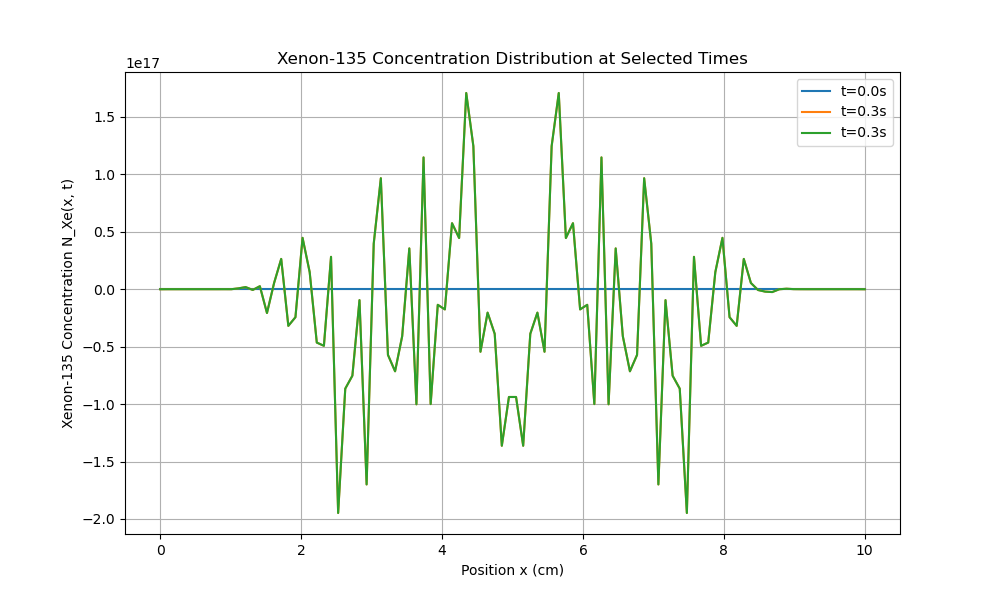
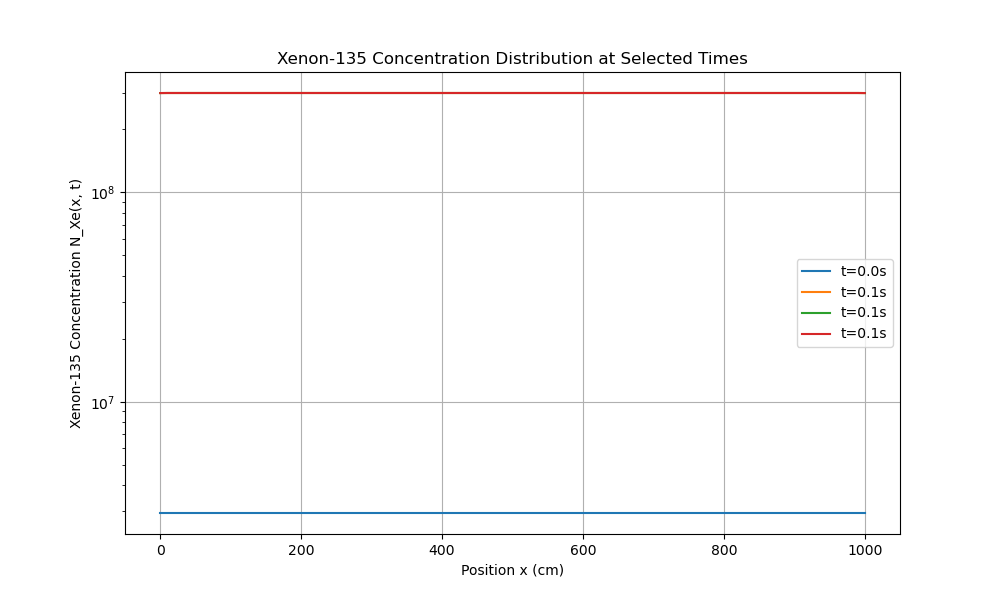
疑似问题：无法选取合适的参数导致无法达到稳态，考虑添加收敛规则

diff --git a/main.py b/main.py
@@ -1,7 +1,7 @@
 import os
 import numpy as np
 import matplotlib.pyplot as plt
-from matplotlib.animation import FuncAnimation
+import matplotlib.animation as animation
 import logging
 
 # 设置日志记录
@@ -9,7 +9,7 @@ logging.basicConfig(level=logging.INFO, format='%(asctime)s - %(levelname)s - %(
 
 # 参数定义
 # 空间域
-L = 10.0  # 一维空间长度，单位cm
+L = 1000  # 一维空间长度，单位cm
 nx = 100  # 增加空间离散点数以提高空间分辨率
 dx = L / (nx - 1)
 x = np.linspace(0, L, nx)
@@ -20,12 +20,12 @@ delta_t = 0.001      # 时间步长，单位s
 nt = int(total_time / delta_t)
 
 # 物理参数
-D = 1.0            # 扩散系数，cm²/s
+D = 1.02            # 扩散系数，cm²/s
 sigma_a_Xe = 2.7e-18  # Xe吸收截面，cm²
 nu = 2.73             # 中子产额
 Sigma_f = 0.043      # 裂变截面，cm²
-gamma_I = 6.386e-2   # I-135的产生速率
-gamma_Xe = 0.228e-2  # Xe-135的产生速率
+gamma_I = 6.386e-2   # I-135的产额
+gamma_Xe = 0.228e-2  # Xe-135的产额
 lambda_I = 2.87e-5   # I-135的衰变常数，s⁻¹
 lambda_Xe = 2.09e-5  # Xe-135的衰变常数，s⁻¹
 beta = 0.0065        # 缓发中子产额
@@ -47,8 +47,7 @@ phi = phi_initial.copy()
 N_I = N_I_initial.copy()
 N_Xe = N_Xe_initial.copy()
 
-# 优化数据存储：预分配数组并按需存储
-# 例如，每隔100步存储一次
+# 每隔100步存储一次
 store_every = 100
 stored_steps = nt // store_every + 1
 
@@ -60,15 +59,23 @@ time_history = np.zeros(stored_steps)
 current_store = 0
 
 def compute_phi_derivative(phi, rho, beta, Lambda, N_Xe):
-    d2phi_dx2 = np.zeros_like(phi)
-    d2phi_dx2[1:-1] = (phi[2:] - 2 * phi[1:-1] + phi[:-2]) / dx**2
+    # 引入虚拟点
+    phi_extended = np.zeros(nx + 2, dtype=np.float64)
+    phi_extended[1:-1] = phi
 
-    # 边界条件
-    d2phi_dx2[0] = 0
-    d2phi_dx2[-1] = 0
+    # 应用第一类边界条件（Dirichlet 边界条件）
+    # 假设边界值固定为0
+    phi_extended[0] = 0.0          # 左边界
+    phi_extended[-1] = 0.0         # 右边界
 
-    # dphi_dt = D * d2phi_dx2 - sigma_a_Xe * N_Xe * phi + nu * Sigma_f * phi
-    dphi_dt = D * d2phi_dx2 - sigma_a_Xe * N_Xe * phi + nu * Sigma_f * phi - ((rho - beta) / Lambda) * phi
+    # 计算二阶导数
+    d2phi_dx2 = (phi_extended[2:] - 2 * phi_extended[1:-1] + phi_extended[:-2]) / dx**2
+
+    # 计算 dphi/dt
+    dphi_dt = D * d2phi_dx2 - sigma_a_Xe * N_Xe * phi + nu * Sigma_f * phi
+    # 如果需要包含其他项，可以取消注释并调整
+    # dphi_dt = (D * d2phi_dx2 - sigma_a_Xe * N_Xe * phi + nu * Sigma_f * phi 
+    #            - ((rho - beta) / Lambda) * phi)
 
     return dphi_dt
 
@@ -77,59 +84,108 @@ def iodine_xenon_dynamics(phi, N_I, N_Xe):
     dN_Xe_dt = lambda_I * N_I + gamma_Xe * Sigma_f * phi - (lambda_Xe + sigma_a_Xe * phi) * N_Xe
     return dN_I_dt, dN_Xe_dt
 
+# 收敛参数定义
+convergence_tol = 1e3  # 定义收敛的容忍度（根据问题规模调整）
+convergence_steps = 100  # 连续满足收敛条件的步数
+convergence_window = []  # 用于记录最近的变化量
+
+# 最大迭代步数（可根据需要调整）
+max_steps = 170000
+
 # 时间循环
-for t_step in range(nt):
+for t_step in range(max_steps):
+    if t_step >= nt:
+        logging.warning('Reached the predefined maximum number of iterations.')
+        break
+
     current_time = t_step * delta_t
-    dphi_dt = compute_phi_derivative(phi, rho, beta, Lambda, N_Xe)
+
+    # 计算动态
     dN_I_dt, dN_Xe_dt = iodine_xenon_dynamics(phi, N_I, N_Xe)
-
-    # 更新变量
-    phi += delta_t * dphi_dt
-    N_I += delta_t * dN_I_dt
-    N_Xe += delta_t * dN_Xe_dt
-
-    # 边界条件
-    phi[0] = 0
-    phi[-1] = 0
+    N_I_new = N_I + delta_t * dN_I_dt
+    N_Xe_new = N_Xe + delta_t * dN_Xe_dt
+    dphi_dt = compute_phi_derivative(phi, rho, beta, Lambda, N_Xe)
+    phi_new = phi + delta_t * dphi_dt
 
     # 数据验证
-    if np.any(np.isnan(phi)) or np.any(np.isinf(phi)):
+    if np.any(np.isnan(phi_new)) or np.any(np.isinf(phi_new)):
         logging.error(f'Invalid values detected in phi at time step {t_step}, time {current_time:.2f}s')
-        print(phi)
         break  # 或者采取其他错误处理措施
-    
-    if np.any(np.isnan(N_I)) or np.any(np.isinf(N_I)):
+
+    if np.any(np.isnan(N_I_new)) or np.any(np.isinf(N_I_new)):
         logging.error(f'Invalid values detected in N_I at time step {t_step}, time {current_time:.2f}s')
         break
-    
-    if np.any(np.isnan(N_Xe)) or np.any(np.isinf(N_Xe)):
+
+    if np.any(np.isnan(N_Xe_new)) or np.any(np.isinf(N_Xe_new)):
         logging.error(f'Invalid values detected in N_Xe at time step {t_step}, time {current_time:.2f}s')
         break
-    
+
+    # 更新变量
+    phi = phi_new
+    N_I = N_I_new
+    N_Xe = N_Xe_new
+
+    # 计算变化量（使用绝对差的最大值作为变化指标）
+    delta_phi = np.max(np.abs(phi - phi_history[current_store - 1] if current_store > 0 else phi))
+    delta_N_I = np.max(np.abs(N_I - (N_I_history[current_store - 1] if current_store > 0 else N_I)))
+    delta_N_Xe = np.max(np.abs(N_Xe - (N_Xe_history[current_store - 1] if current_store > 0 else N_Xe)))
+    max_delta = max(delta_phi, delta_N_I, delta_N_Xe)
+
+    # 更新收敛窗口
+    convergence_window.append(max_delta)
+    if len(convergence_window) > convergence_steps:
+        convergence_window.pop(0)
+
+    # 检查是否满足收敛条件
+    if len(convergence_window) == convergence_steps and all(delta < convergence_tol for delta in convergence_window):
+        logging.info(f'Steady-state reached at time step {t_step}, time={current_time:.2f}s')
+        # 存储当前状态
+        if t_step % store_every == 0:
+            if current_store >= stored_steps:
+                logging.warning('Stored_steps exceeded the preallocated size. Increasing storage arrays.')
+                phi_history = np.vstack([phi_history, phi])
+                N_I_history = np.vstack([N_I_history, N_I])
+                N_Xe_history = np.vstack([N_Xe_history, N_Xe])
+                time_history = np.append(time_history, current_time)
+                stored_steps += 1
+
+            phi_history[current_store] = phi
+            N_I_history[current_store] = N_I
+            N_Xe_history[current_store] = N_Xe
+            time_history[current_store] = current_time
+            current_store += 1
+        break  # 退出时间循环
 
     # 按需存储结果
     if t_step % store_every == 0:
+        logging.info(f'Processing time step {t_step}/{nt}, time={current_time:.2f}s')
+
         if current_store >= stored_steps:
             logging.warning('Stored_steps exceeded the preallocated size. Increasing storage arrays.')
             # 动态扩展存储数组
             phi_history = np.vstack([phi_history, phi])
             N_I_history = np.vstack([N_I_history, N_I])
             N_Xe_history = np.vstack([N_Xe_history, N_Xe])
-            time_history = np.append(time_history, t_step * delta_t)
+            time_history = np.append(time_history, current_time)
             stored_steps += 1
 
         phi_history[current_store] = phi
         N_I_history[current_store] = N_I
         N_Xe_history[current_store] = N_Xe
-        time_history[current_store] = t_step * delta_t
+        time_history[current_store] = current_time
         current_store += 1
+
+    # 不稳定性检测（例如，变量超过一定范围）
+    if np.any(phi > 1e20) or np.any(N_I > 1e10) or np.any(N_Xe > 1e10):
+        logging.error(f'Variables exceeded physical limits at time step {t_step}, time {current_time:.2f}s')
+        break
 
 # 处理最后一步（如果未存储）
 if current_store < stored_steps:
     phi_history[current_store] = phi
     N_I_history[current_store] = N_I
     N_Xe_history[current_store] = N_Xe
-    time_history[current_store] = nt * delta_t
+    time_history[current_store] = t_step * delta_t
 
 # 修剪存储数组以去除未使用的预分配部分
 phi_history = phi_history[:current_store]
@@ -170,15 +226,14 @@ if np.any(np.isnan(time_history)) or np.any(np.isinf(time_history)):
     logging.error('Invalid values detected in time history.')
     exit(1)
 
-# %% 绘图优化
-
 # 选择绘图时使用的时间点
 # 例如，绘制初始、中间和结束时刻
-plot_times = [0, total_time / 2, total_time]
+plot_times = [0, max_steps * delta_t / 4, max_steps * delta_t / 2, max_steps * delta_t]  
+
 plot_indices = []
 for t in plot_times:
     idx = np.argmin(np.abs(time_history - t))
-    if idx < len(time_history):
+    if (idx < len(time_history)):
         plot_indices.append(idx)
     else:
         logging.warning(f'Plot time {t} exceeds simulation time. Using last available index.')
@@ -194,11 +249,12 @@ for idx, t in zip(plot_indices, plot_times):
     plt.plot(x, phi_history[idx], label=f't={time_history[idx]:.1f}s')
 plt.xlabel('Position x (cm)')
 plt.ylabel('Neutron Flux φ(x, t) (neutrons/cm²/s)')
+plt.yscale('log')
 plt.title('Neutron Flux Distribution at Selected Times')
 plt.legend()
 plt.grid(True)
 plt.savefig(os.path.join(output_dir, 'Neutron_Flux_Distribution_Selected_Times.png'))
-plt.show()
+# plt.show()
 
 # 绘制I-135浓度分布
 plt.figure(figsize=(10, 6))
@@ -206,11 +262,12 @@ for idx, t in zip(plot_indices, plot_times):
     plt.plot(x, N_I_history[idx], label=f't={time_history[idx]:.1f}s')
 plt.xlabel('Position x (cm)')
 plt.ylabel('Iodine Concentration N_I(x, t)')
+plt.yscale('log')
 plt.title('Iodine Concentration Distribution at Selected Times')
 plt.legend()
 plt.grid(True)
 plt.savefig(os.path.join(output_dir, 'Iodine_Concentration_Distribution_Selected_Times.png'))
-plt.show()
+# plt.show()
 
 # 绘制Xe-135浓度分布
 plt.figure(figsize=(10, 6))
@@ -218,13 +275,15 @@ for idx, t in zip(plot_indices, plot_times):
     plt.plot(x, N_Xe_history[idx], label=f't={time_history[idx]:.1f}s')
 plt.xlabel('Position x (cm)')
 plt.ylabel('Xenon-135 Concentration N_Xe(x, t)')
+plt.yscale('log')
 plt.title('Xenon-135 Concentration Distribution at Selected Times')
 plt.legend()
 plt.grid(True)
 plt.savefig(os.path.join(output_dir, 'Xenon135_Concentration_Distribution_Selected_Times.png'))
-plt.show()
+# plt.show()
 
-# 可选：使用热图显示随时间和空间变化的分布
+
+# 使用热图显示随时间和空间变化的分布
 # 中子通量热图
 plt.figure(figsize=(10, 6))
 extent = [x.min(), x.max(), time_history.min(), time_history.max()]
@@ -256,23 +315,72 @@ plt.title('Xenon-135 Concentration Distribution Over Time')
 plt.savefig(os.path.join(output_dir, 'Xenon135_Concentration_Heatmap.png'))
 plt.show()
 
-# 可选：生成动画以动态展示变化
-# 注意：生成动画可能需要更长的时间和更多的存储空间
 
-# def animate(i):
-#     plt.clf()
-#     plt.plot(x, phi_history[i], label=f'φ at t={time_history[i]:.1f}s')
-#     plt.plot(x, N_I_history[i], label=f'I-135 at t={time_history[i]:.1f}s')
-#     plt.plot(x, N_Xe_history[i], label=f'Xe-135 at t={time_history[i]:.1f}s')
-#     plt.xlabel('Position x (cm)')
-#     plt.ylabel('Values')
-#     plt.title(f'Distribution at t={time_history[i]:.1f}s')
-#     plt.legend()
-#     plt.grid(True)
+# 设置全局绘图样式
+plt.style.use('ggplot')
 
-# fig = plt.figure(figsize=(10, 6))
-# ani = FuncAnimation(fig, animate, frames=stored_steps, interval=100)
-# ani.save(os.path.join(output_dir, 'Distribution_Animation.gif'), writer='imagemagick')
-# plt.show()
+# 创建中子通量动画
+def create_flux_animation(x, phi_history, time_history, output_path):
+    fig, ax = plt.subplots(figsize=(10, 6))
+
+    def animate(i):
+        ax.clear()
+        ax.plot(x, phi_history[i], color='blue')
+        ax.set_xlabel('Position x (cm)')
+        ax.set_ylabel('Neutron Flux φ(x, t) (neutrons/cm²/s)')
+        ax.set_yscale('log')
+        ax.set_title(f'Neutron Flux Distribution at t={time_history[i]:.1f} s')
+        ax.grid(True)
+
+    flux_anim = animation.FuncAnimation(fig, animate, frames=len(time_history), interval=10)
+    flux_anim.save(output_path, writer='imagemagick')
+    plt.close(fig)
+
+# 创建I-135浓度动画
+def create_I_concentration_animation(x, N_I_history, time_history, output_path):
+    fig, ax = plt.subplots(figsize=(10, 6))
+
+    def animate(i):
+        ax.clear()
+        ax.plot(x, N_I_history[i], color='green')
+        ax.set_xlabel('Position x (cm)')
+        ax.set_ylabel('Iodine Concentration N_I(x, t)')
+        ax.set_yscale('log')
+        ax.set_title(f'Iodine Concentration Distribution at t={time_history[i]:.1f} s')
+        ax.grid(True)
+
+    I_anim = animation.FuncAnimation(fig, animate, frames=len(time_history), interval=10)
+    I_anim.save(output_path, writer='imagemagick')
+    plt.close(fig)
+
+# 创建Xe-135浓度动画
+def create_Xe_concentration_animation(x, N_Xe_history, time_history, output_path):
+    fig, ax = plt.subplots(figsize=(10, 6))
+
+    def animate(i):
+        ax.clear()
+        ax.plot(x, N_Xe_history[i], color='red')
+        ax.set_xlabel('Position x (cm)')
+        ax.set_ylabel('Xenon-135 Concentration N_Xe(x, t)')
+        ax.set_yscale('log')
+        ax.set_title(f'Xenon-135 Concentration Distribution at t={time_history[i]:.1f} s')
+        ax.grid(True)
+
+    Xe_anim = animation.FuncAnimation(fig, animate, frames=len(time_history), interval=10)
+    Xe_anim.save(output_path, writer='imagemagick')
+    plt.close(fig)
+
+# 保存动画的路径
+flux_gif_path = os.path.join(output_dir, 'Neutron_Flux_Distribution.gif')
+I_gif_path = os.path.join(output_dir, 'Iodine_Concentration_Distribution.gif')
+Xe_gif_path = os.path.join(output_dir, 'Xenon135_Concentration_Distribution.gif')
+
+# 创建并保存动画
+create_flux_animation(x, phi_history, time_history, flux_gif_path)
+create_I_concentration_animation(x, N_I_history, time_history, I_gif_path)
+create_Xe_concentration_animation(x, N_Xe_history, time_history, Xe_gif_path)
+
+print(f"动画已保存到 {output_dir}")
+
 
 print('Simulation and plotting completed successfully!')
